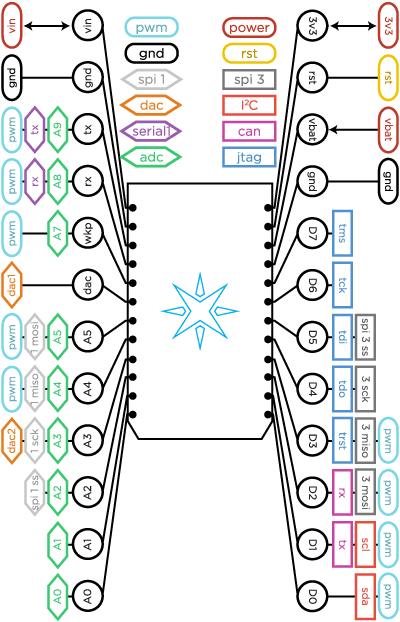
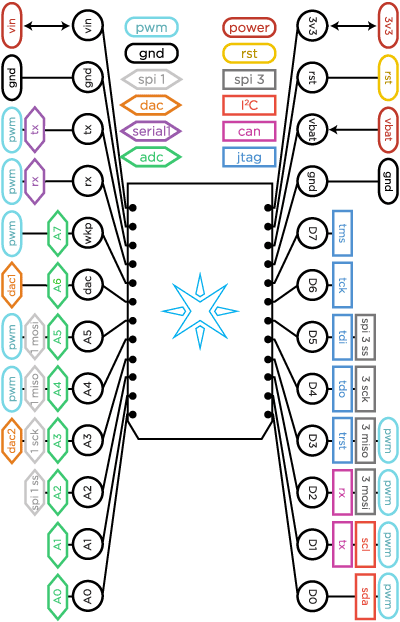
updated start page pinouts and image

Changed region(s): [[0.09, 0.1527, 0.18, 0.336], [0.12, 0.4277, 0.18, 0.5193]]

diff --git a/src/content/en/photon/start.md b/src/content/en/photon/start.md
@@ -169,17 +169,18 @@ Flashing yellow/red | Bad credentials for the Cloud. Contact the Particle team a
 The Photon has 24 pins that you can connect a circuit to. These pins are:
 
 | Pin | Description |
-|-----|-------------|
-| VIN | This pin can be used as an input or output. As an input, supply 3.6 to 5.5VDC to power the Photon. When the Photon is powered via the USB port, this pin will output a voltage of approximately 4.8VDC due to a reverse polarity protection series schottky diode between VUSB and VIN. When used as an output, the max load on VIN is 1A.                                     |
-| RST | Active-low reset input. On-board circuitry contains a 1k ohm pull-up resistor between RST and 3V3, and 0.1uF capacitor between RST and GND.                                                                                                                                                                                                                                    |
-| VBAT | Supply to the internal RTC, backup registers and SRAM (1.8 to 3.3VDC).                                                                                                                                                                                                                                                                                                         |
-| 3V3  | This pin is the output of the on-board regulator and is internally connected to the VDD of the WiFi module. When powering the Photon via VIN or the USB port, this pin will output a voltage of 3.3VDC. This pin can also be used to power the Photon directly (max input 3.3VDC). When used as an output, the max load on 3V3 is 100mA. NOTE: When powering the Photon via this pin, ensure power is disconnected from VIN and USB. |
-| WKP | Active-high wakeup pin, wakes the module from sleep/standby modes. When not used as a WAKEUP, this pin can also be used as a digital GPIO, ADC input or PWM.                                                                                                                                                                                                                   |
-| D0~D7 | Digital only GPIO pins.                                                                                                                                                                                                                                                                                                                                              |
-| A0~A5, A7~A9 | 12-bit Analog-to-Digital (A/D) inputs, and also digital GPIOs. A7~A9 are code convenience mappings, which means pins are not actually labeled as such but you may use code like `analogRead(A9)`.  A7 maps to the WKP pin, A8 to the RX pin and A9 to the TX pin.                                                                                                                                                                                                                                                                                                                |
-| DAC   | 10-bit Digital-to-Analog (D/A) output, and also a digital GPIO.                                                                                                                                                                                                                                                                                                                      |
-| RX    | Primarily used as UART RX, but can also be used as a digital GPIO, ADC input or PWM.                                                                                                                                                                                                                                                                                           |
-| TX    | Primarily used as UART TX, but can also be used as a digital GPIO, ADC input or PWM.                                                                                                                                                                                                                                                                                           |
+|-|-|
+| VIN | This pin can be used as an input or output. As an input, supply 3.6 to 5.5VDC to power the Photon. When the Photon is powered via the USB port, this pin will output a voltage of approximately 4.8VDC due to a reverse polarity protection series schottky diode between VUSB and VIN. When used as an output, the max load on VIN is 1A. |
+| RST | Active-low reset input. On-board circuitry contains a 1k ohm pull-up resistor between RST and 3V3, and 0.1uF capacitor between RST and GND. |
+| VBAT | Supply to the internal RTC, backup registers and SRAM (1.8 to 3.3VDC). |
+| 3V3 | This pin is the output of the on-board regulator and is internally connected to the VDD of the WiFi module. When powering the Photon via VIN or the USB port, this pin will output a voltage of 3.3VDC. This pin can also be used to power the Photon directly (max input 3.3VDC). When used as an output, the max load on 3V3 is 100mA. NOTE: When powering the Photon via this pin, ensure power is disconnected from VIN and USB. |
+| WKP | Active-high wakeup pin, wakes the module from sleep/standby modes. When not used as a WAKEUP, this pin can also be used as a digital GPIO, ADC input or PWM. |
+| D0~D7 | Digital only GPIO pins. |
+| A0~A9 | 12-bit Analog-to-Digital (A/D) inputs (0-4095), and also digital GPIOs. A6 and A7 are code convenience mappings, which means pins are not actually labeled as such but you may use code like `analogRead(A7)`.  A6 maps to the DAC pin and A7 maps to the WKP pin. |
+| DAC   | 12-bit Digital-to-Analog (D/A) output (0-4095), and also a digital GPIO. DAC is used as `DAC1` in software, and A5 is a second DAC output used as `DAC2` in software. |
+| RX    | Primarily used as UART RX, but can also be used as a digital GPIO or PWM. |
+| TX    | Primarily used as UART TX, but can also be used as a digital GPIO or PWM. |
+
 ### PWM Pins
 
 When you want to use the `analogWrite()` function on the Photon, for instance to smoothly dim the brightness of LEDs, you need to use pins that have a timer peripheral.  People often call these PWM pins, since what they do is called Pulse Width Modulation.  The Photon has 9 PWM pins: D0, D1, D2, D3, A4, A5, A7, RX and TX.
